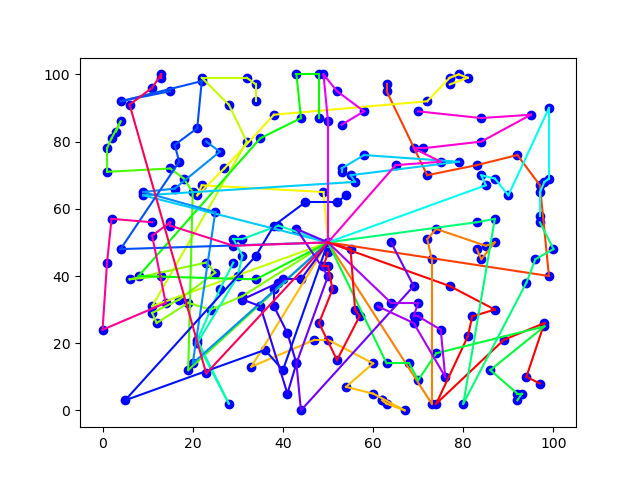
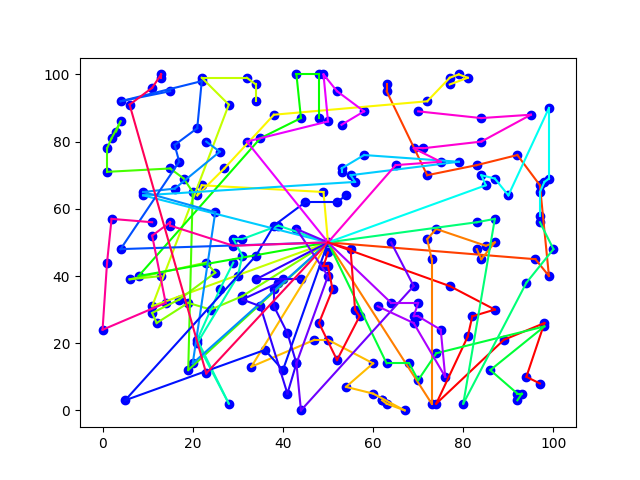
Change relocation move method to work with multiple max routes

diff --git a/Solver.py b/Solver.py
@@ -182,7 +182,7 @@ class Solver:
         return cloned
 
     def FindBestRelocationMove(self, rm):
-        oldcost = self.CalculateTotalCost(self.sol)
+        oldcost,oldtimes = self.CalculateTotalCost(self.sol)
         for originRouteIndex in range(0, len(self.sol.routes)):
             rt1:Route = self.sol.routes[originRouteIndex]
             for targetRouteIndex in range (0, len(self.sol.routes)):
@@ -218,13 +218,14 @@ class Solver:
                         # print('oldtarget', self.sol.routes[targetRouteIndex].time, 'newtarget', newsol.routes[targetRouteIndex].time, newsol.routes[targetRouteIndex].time , 'tchange',targetRtCostChange  )
 
 
-                        newcost = self.CalculateTotalCost(newsol)
+                        newcost,times = self.CalculateTotalCost(newsol)
                         #λαθος σκεψη για εμας πρεπει να το κανουμε καπως αλλιως γιατι εμεις δεν υπολογιζουμε ετσι τον μιν του μαξ χρονο
                         # moveCost = costAdded - costRemoved
 
-                        if (oldcost > newcost):
+                        if (oldcost > newcost or (oldcost == newcost and times < oldtimes)):
                             print('oc', oldcost, 'nc', newcost)
                             oldcost = newcost
+                            oldtimes = times
                             # print("newsol routes")
                             # for r in newsol.routes:
                             #     r.printRoute()
@@ -270,7 +271,7 @@ class Solver:
         #
         # self.sol.time_cost += rm.moveCost
 
-        self.sol.time_cost = self.CalculateTotalCost(self.sol)
+        self.sol.time_cost, caltim = self.CalculateTotalCost(self.sol)
         #debuggingOnly
         # 'mc', rm.moveCost
         # print('n', newCost, 'o', oldCost)
@@ -297,7 +298,11 @@ class Solver:
         routes_sorted = sol.routes[:]
         routes_sorted.sort(key=lambda x: x.time)
         c = routes_sorted[-1].time
-        return c
+        j = 0
+        for i in routes_sorted:
+            if c == i.time:
+                j = j + 1
+        return c , j
 
     def ReportSolution(self, sol):
         for i in range(0, len(sol.routes)):
